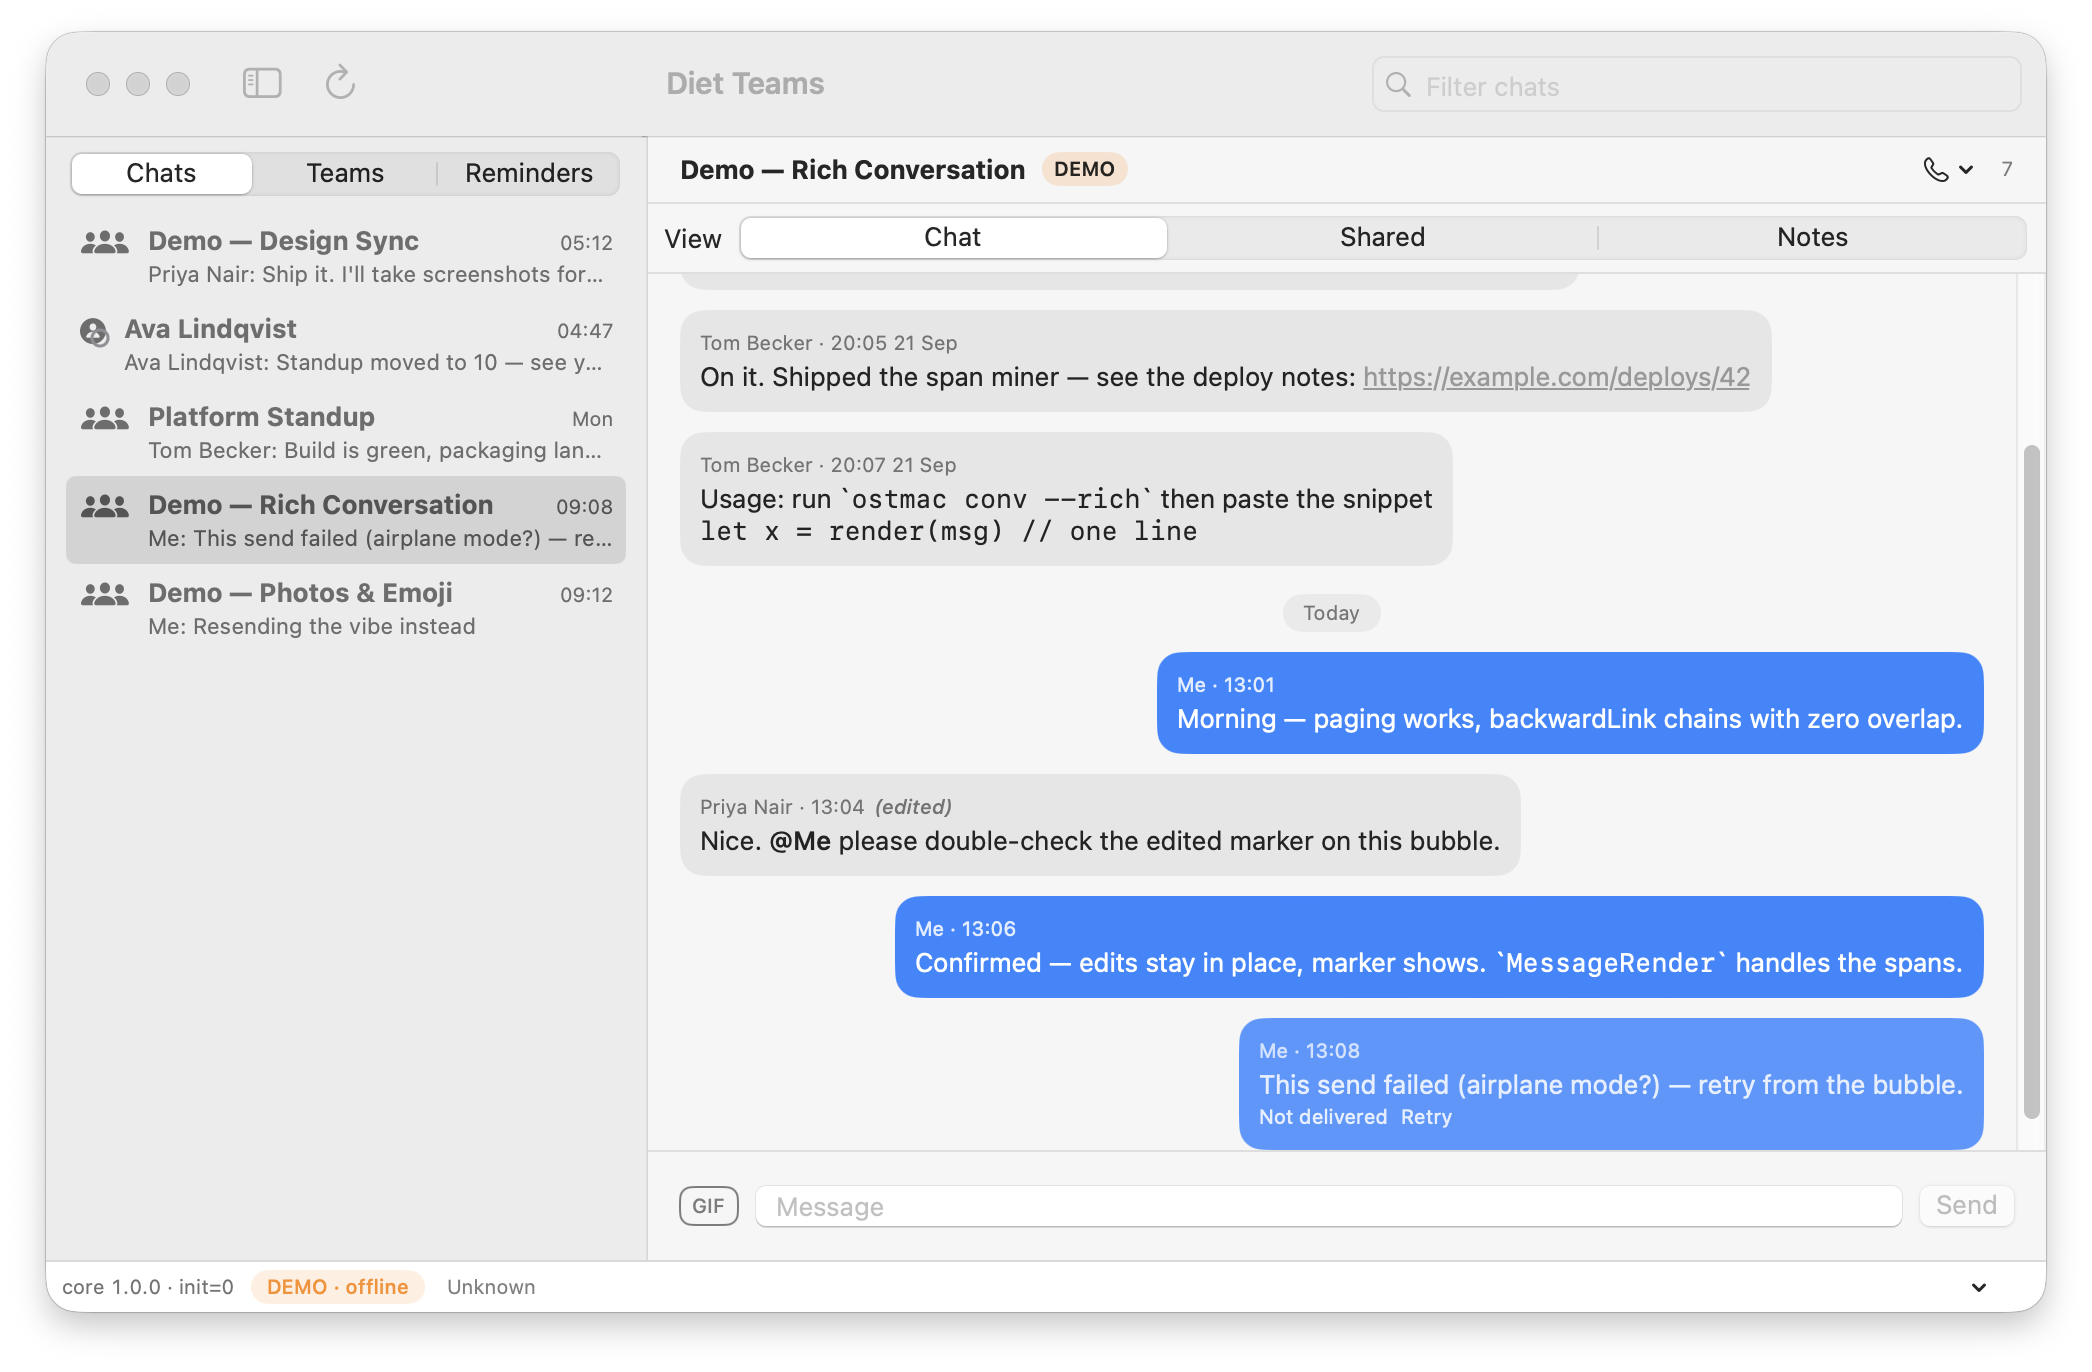
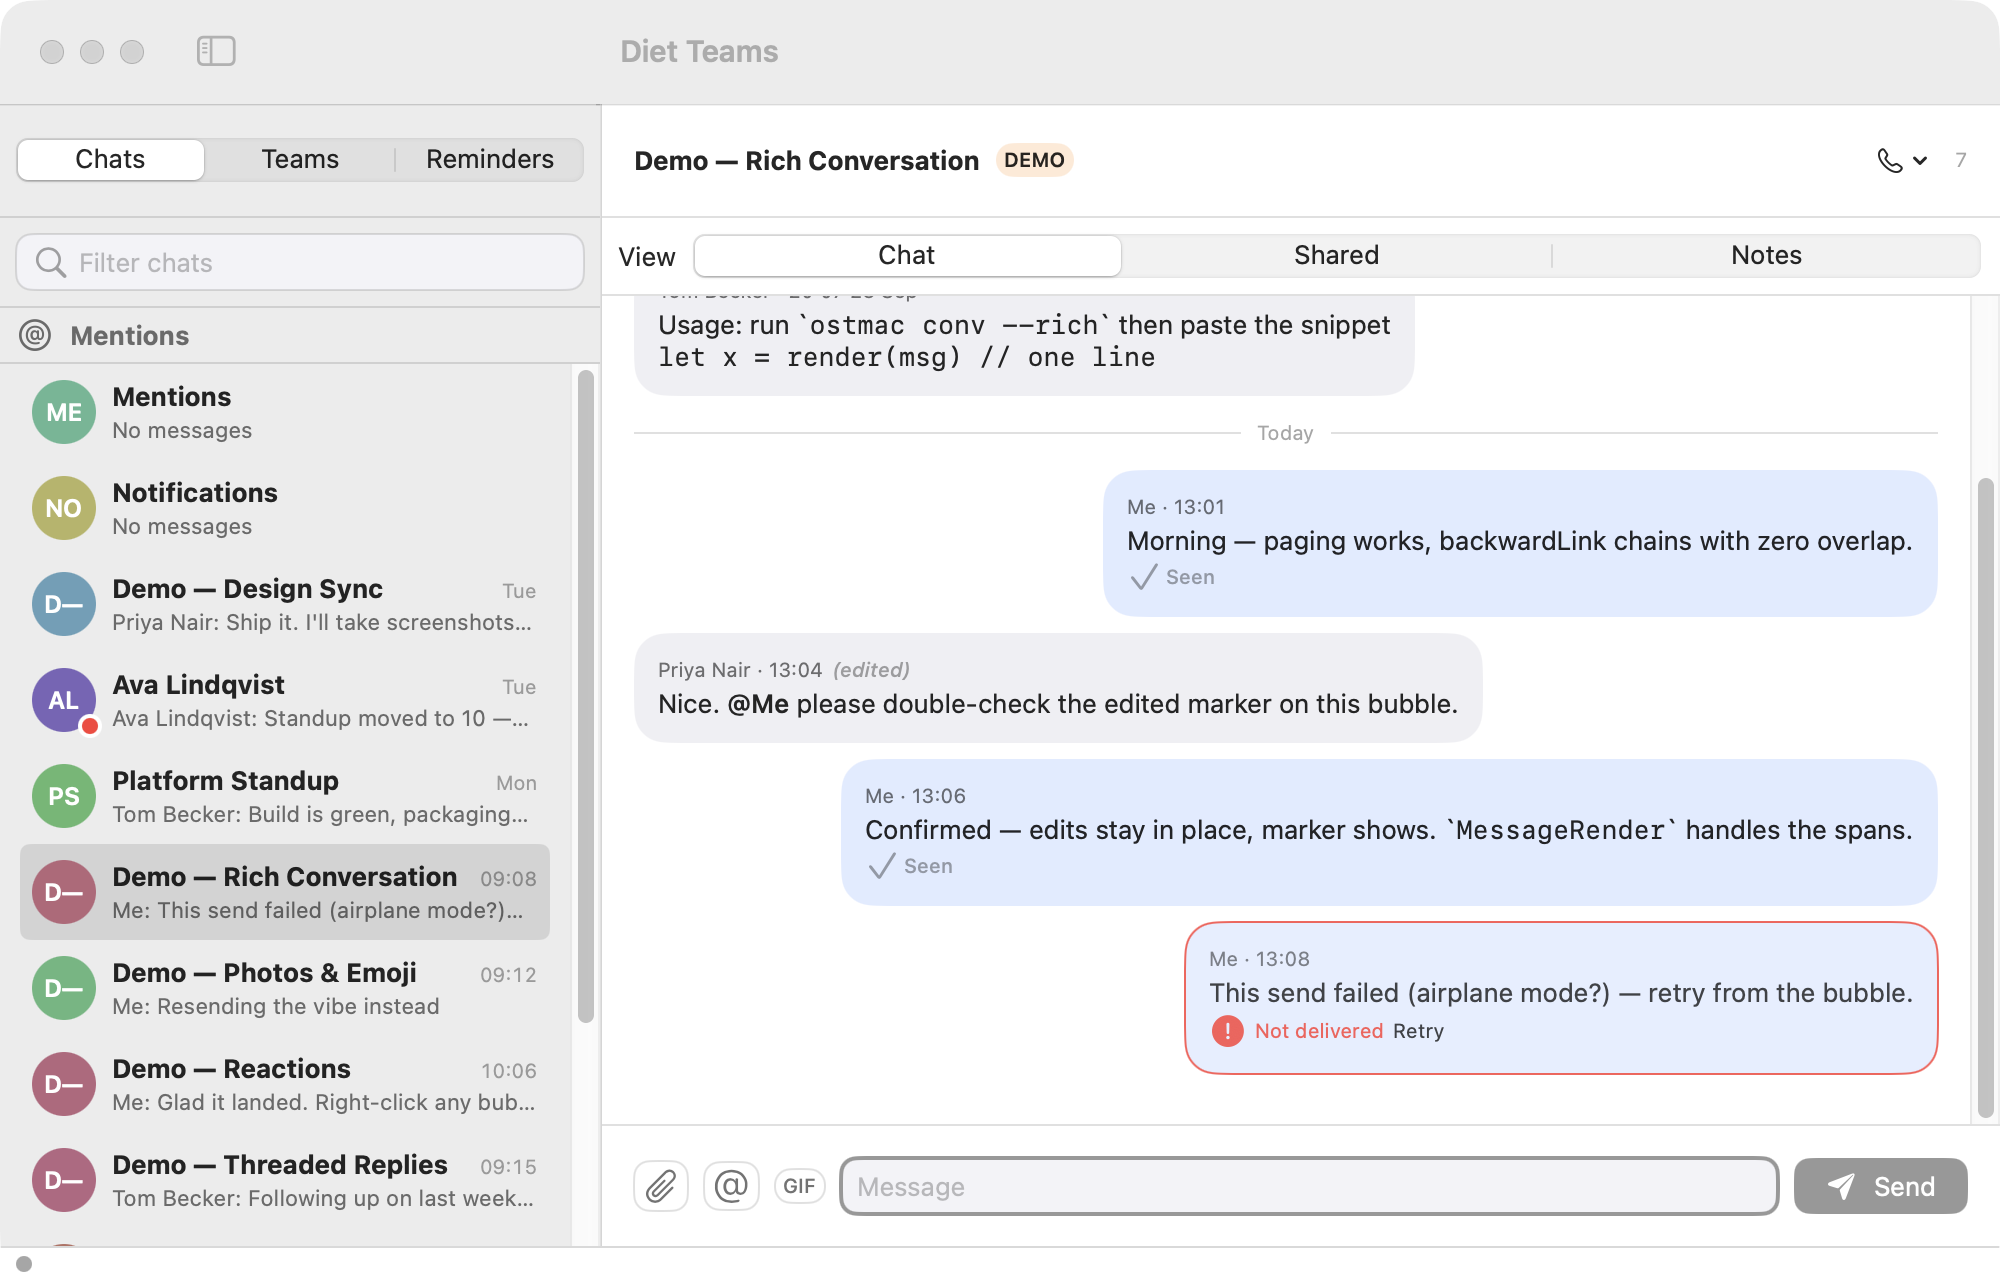
om-readme-shots: regenerate README hero shots from current demo UI + feature-list audit
- main window: pinned Mentions/Notifications, avatar sidebar, Seen
  receipts, failed bubble, current composer (attach/@/GIF/Send)
- teams channel: Engineering > #General with open checkmark, current UI
- auth: canned device-code screen (ABCD-1234 fixture, no personal data)
- README features: pinned rows, forward/copy/save, @-mention picker,
  composer attachments, catch-up OpenCode-CLI default

diff --git a/README.md b/README.md
@@ -12,12 +12,14 @@ in `--demo` with canned data; sign in via device code or browser to go live.
 ## Features
 
 Chat & conversation
-: Sidebar (Chats / Teams / Reminders) + conversation with Chat / Shared /
-  Notes tabs, live Trouter feed, paged history, ⌘K jump palette, filters.
-: Send, edit, delete, quote replies, emoji reactions, forward/copy, rich
-  rendering (mentions, code, inline images, bot posts, link previews),
-  read receipts, typing indicators.
-: Shared files (list/upload/download); GIF picker (bring-your-own Tenor key).
+: Sidebar (Chats / Teams / Reminders, pinned Mentions/Notifications) +
+  conversation with Chat / Shared / Notes tabs, live Trouter feed, paged
+  history, ⌘K jump palette, filters.
+: Send, edit, delete, quote replies, emoji reactions, forward/copy/save,
+  @-mention picker, rich rendering (mentions, code, inline images, bot
+  posts, link previews), read receipts, typing indicators.
+: Shared files (list/upload/download) + composer attachments; GIF picker
+  (bring-your-own Tenor key).
 
 Teams, meetings, reminders, notes
 : Teams/channels browser; upcoming meetings + join-string parsing; To Do
@@ -36,8 +38,9 @@ Auth & session
   refresh/expiry handling, persisted on-disk session.
 
 Extras
-: AI thread catch-up (bring-your-own key, kept in the macOS keychain),
-  diagnostics/health windows, MCP server (`ostmac-mcp`, see `docs/mcp.md`).
+: AI thread catch-up (OpenCode CLI or bring-your-own key, kept in the
+  macOS keychain), diagnostics/health windows, MCP server (`ostmac-mcp`,
+  see `docs/mcp.md`).
 
 ## Requirements
 
